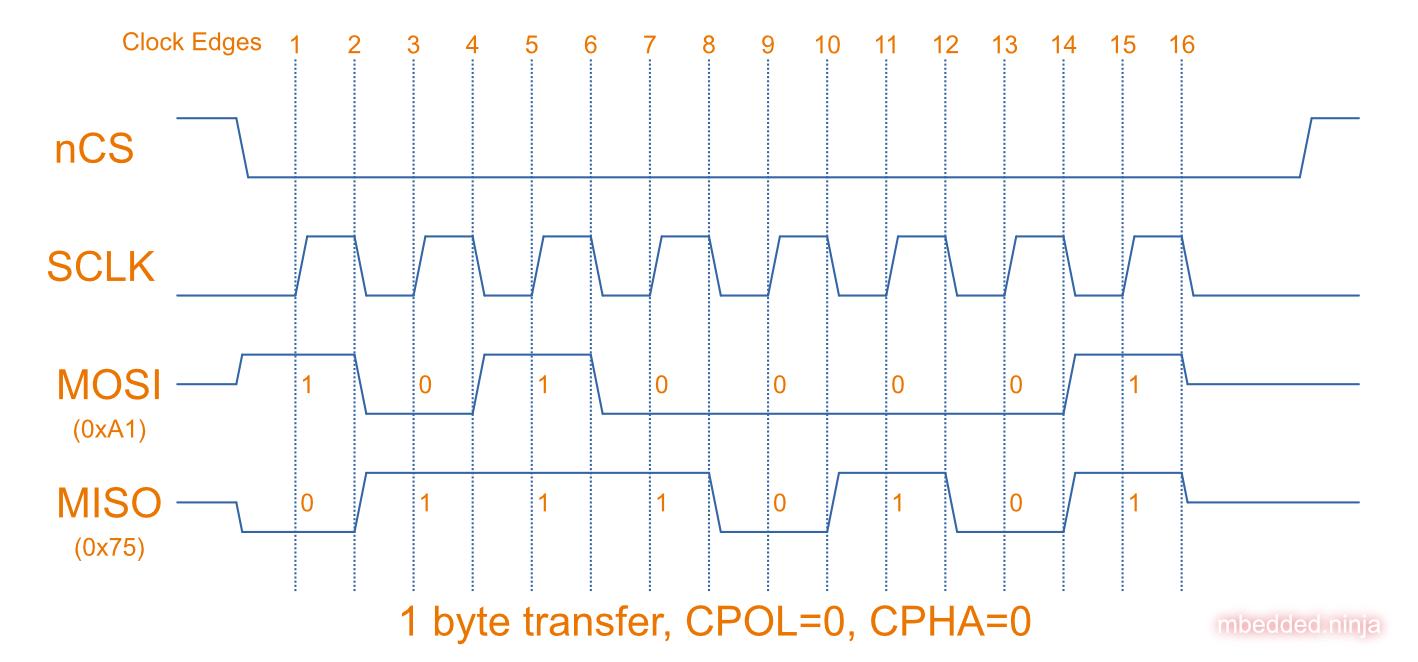
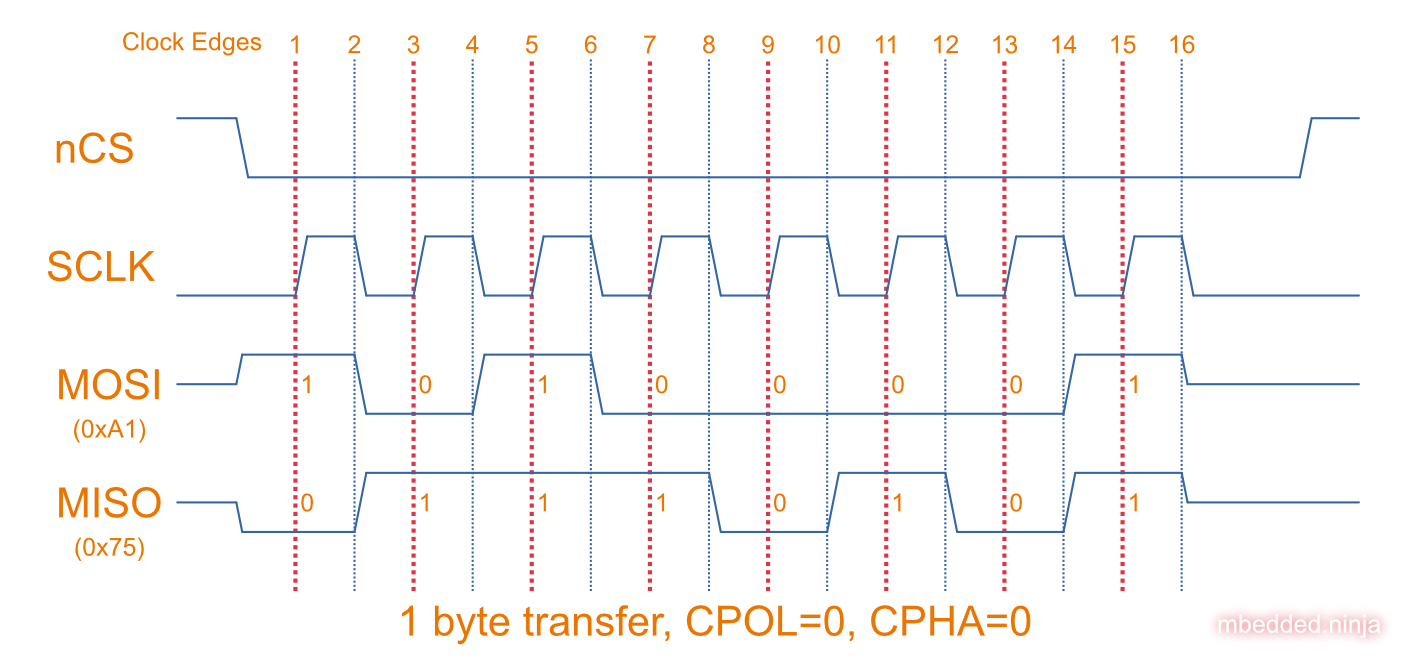
Added more info on SPI.

diff --git a/content/electronics/communication-protocols/spi-communication-protocol/_index.md b/content/electronics/communication-protocols/spi-communication-protocol/_index.md
@@ -3,15 +3,15 @@ authors: [ Geoffrey Hunter ]
 categories: [ Electronics, Communication Protocols ]
 date: 2011-09-03
 draft: false
-lastmod: 2022-06-02
-tags: [ electronics, communication protocols, SPI, bit-banging, MOSI, MISO, peripherals, microcontrollers, MCP4131 ]
+lastmod: 2022-06-25
+tags: [ electronics, communication protocols, SPI, bit-banging, MOSI, MISO, peripherals, microcontrollers, MCP4131, Arduino, controller, peripheral, master, slave, OSHWA ]
 title: SPI Communication Protocol
 type: page
 ---
 
 ## Overview
 
-SPI (_Serial Peripheral Interface_) is a **communication protocol commonly used to talk between microcontrollers/FPGAs and peripheral ICs on circuit boards**. The SPI protocol was initially developed by Motorola. It is **full-duplex** (data can be sent in both directions at once), and is ideally suited to sending medium-speed data streams between devices on the same PCB. Speeds of **10MHz** or more are achievable. It is a **de-facto standard**, which means there is no governing body that defines and regulates the protocol. This means there a quite a number of protocol variants.
+SPI (_Serial Peripheral Interface_) is a **communication protocol commonly used to talk between microcontrollers/FPGAs and peripheral ICs on circuit boards**. The SPI protocol was initially developed by Motorola. It is **full-duplex** (data can be sent in both directions at once), and is ideally suited to sending medium-speed data streams (typical rates up to 10-24Mbps[^bib-totalphase-single-dual-quad-spi]) between devices on the same PCB. It is a **de-facto standard**, which means there is no governing body that defines and regulates the protocol. This means there a quite a number of protocol variants.
 
 {{% img src="spi-basic-master-slave-diagram.png" width="600px" caption="The basic connections needed between an SPI master and a single SPI slave." %}}
 
@@ -44,11 +44,20 @@ One limitation with SPI is that the master has to **initiate** all communication
 
 **No specific termination** is needed on SPI connections. Long connections (many metres or more) and high data rates (>10Mhz) may require standard termination procedures to prevent reflections.
 
+Arduino has moved away from master/slave terminology (supported by an [OSHWA resolution](https://www.oshwa.org/a-resolution-to-redefine-spi-signal-names)) and now uses the following _controller/peripheral_ terminology for SPI[^bib-arduino-spi]:
+
+Old (Master/Slave)          | New (Controller/Peripheral)
+----------------------------|---------
+SS (Slave Select)           | CS (Chip Select)
+SCLK (Serial Clock)         | SCK (Serial Clock)
+MOSI (Master Out, Slave In) | COPI (Controller Out, Peripheral In)
+MISO (Master In, Slave Out) | CIPO (Controller In, Peripheral Out)
+
 ## Protocol
 
 Many **microcontrollers** support the SPI protocol with **dedicated peripheral hardware** to perform the low-level functions associated with sending and receiving SPI data. However, SPI can also be **bit banged** (see below).
 
-The MSB (most significant bit) is sent first, and naturally is then the first to be received. There is no pre-defined packet format, so there is no overhead added by the SPI protocol. This makes SPI great for fast transmission of arbitrary data streams, but relies on application specific interpretation of the raw bytes.
+The MSB (most significant bit) is typically sent first, and naturally is then the first to be received. However this is not specified by the standard, and occasionally you will encounter SPI devices that expect data LSB first. There is no pre-defined packet format, so there is no overhead added by the SPI protocol. This makes SPI great for fast transmission of arbitrary data streams, but relies on application specific interpretation of the raw bytes.
 
 Chip select normally uses inverse logic (low = chip selected). It usually is used to 'frame' a command sequence.
 
@@ -62,7 +71,7 @@ The clock polarity (CPOL) determines whether the idle state of the clock signal 
 
 The clock phase (CPHA) determines whether data is captured/sent on the rising or falling edge. **If CPHA = 0, then data is sampled on the first clock edge. If CPHA = 1, then data is sampled on the second clock edge.** This is true no matter what the clock polarity (CPOL) is set to, and applies both to the master and all the slaves. Note that if CPHA = 0, then data must be setup before the first clock edge. If CPHA = 1, then the devices have the initial clock edge to shift data onto the lines, in preparation for sampling on the second clock edge.
 
-The following table shows the naming conventions for _Microchip PIC_ or _ARM-based_ microcontrollers:
+The following table shows the naming conventions for _Microchip PIC_ or _ARM-based_ microcontrollers, as well as what is used for the Arduino SPI API[^bib-arduino-spi]:
 
 SPI Mode | Clock Polarity (CPOL) | Clock Phase (CPHA) | Which Clock Edge Is Used To Sample/Shift?
 ---------|-----------------------|--------------------|--------------------------------------------------------------
@@ -71,24 +80,21 @@ SPI Mode | Clock Polarity (CPOL) | Clock Phase (CPHA) | Which Clock Edge Is Used
 2        | 1                     | 0                  | Data sampled on falling edge and shifted out on rising edge.
 3        | 1                     | 1                  | Data sampled on rising edge and shifted out on falling edge.
 
-A common point of confusion is what clock phase (CPHA) means for data sampling/shifting for the different clock polarities. I have seen many sites and diagrams online which state that a clock phase of `0` means that data is sampled on the rising edge.
+A common point of confusion is what clock phase (CPHA) means for data sampling/shifting for the different clock polarities. I have seen many sites and diagrams online which state that a clock phase CPHA of `0` means that data is sampled on the rising edge (this is only true is CPOL is also 0).
 
 The following diagram gives a graphical representation of the different CPOL and CPHA settings. Bits on the MOSI and MISO lines are always sampled half-way between the transitions. For CPHA=0 this means data is sampled on clock edges 1, 3, 5, e.t.c and for CPHA=1 data is sampled on clock edges 2, 4, 6, e.t.c.
 
 {{% img src="cpol-and-cpha-diagram.png" width="800px" caption="Diagram showing the different behaviours for different CPOL and CPHA settings." %}}
 
-Below shows an example of a single-byte transfer with CPOL=0 and CPHA=0. The master sends the data `0xA1` and the slave sends `0x75`.
+Below shows an example of a single-byte transfer with CPOL=0 and CPHA=0. The master sends the data `0xA1` and the slave sends `0x75`. Data is sampled at the dotted red vertical lines.
 
-{{% img src="example-transmission-cpol0-cpha0.png" width="800px" caption="Example single-byte transfer with CPOL=0 and CPHA=0. Master sends 0xA1, slave sends 0x75." %}}
+{{% img src="example-transmission-cpol0-cpha0.png" width="800px" caption="Example single-byte transfer with CPOL=0 and CPHA=0 (Mode 0). Master sends 0xA1, slave sends 0x75. Data is sampled at the dotted red vertical lines." %}}
+
+And now for comparison, let's see what it would look like if we transmitted the same data but with CPOL=1 and CPHA=1 (Mode 3):
+
+{{% img src="example-transmission-cpol1-cpha1.png" width="800px" caption="Example single-byte transfer with CPOL=1 and CPHA=1 (Mode 3). Master sends 0xA1, slave sends 0x75. Data is sampled at the dotted red vertical lines." %}}
 
 The standard defines these different modes to allow for greater variability in the master and slave devices that can use SPI.
-
-### What Is The Idle State?
-
-The idle state is defined as the periods when:
-
-* CS is high and transitioning to low at the start of a transmission
-* CS is low and transitioning to high at the end of a transmission
 
 {{% note %}}
 Many devices do not support all four SPI modes. It is common (especially for slave devices) to only support two of the four modes.
@@ -144,6 +150,42 @@ The datasheet says exactly when the SDI will be turned into an SDO and data sent
 (SDI/SDO pin). After the Address/Command (first 6-bits) are received, If a valid Read command has been
 requested, the SDO pin starts driving the requested read data onto the SDI/SDO pin[^bib-microchip-mcp4xxxx-dpot-ds].
 
+## Dual And Quad SPI
+
+Dual and Quad SPI (QSPI) are extensions on the basic SPI bus which allow for faster communication rates. QSPI is commonly used for external NOR flash memory.
+
+## Firmware
+
+The Arduino platform provides a consistent API for accessing peripherals on an SPI bus. The API is accessed by including `SPI.h` in your `.cpp` file. If the microcontroller has only one SPI bus, it can usually be accessed via the global `SPI`.
+
+```c++
+#include <SPI.h>
+
+const int slavePin = 20;
+
+int main() {
+    uint8_t val1, val2;
+
+    // Begin SPI transaction, setting clock speed to 1MHz, most significant bit first (typical), and
+    // SPI Mode 0 (CPOL=0, CPHA=0).
+    SPI.beginTransaction(SPISettings(1000000, MSBFIRST, SPI_MODE0));
+
+    // Assert the slaves chip select (drive low)
+    digitalWrite(slavePin, LOW);
+
+    // Two bytes transferred across, and read the two bytes sent back to us
+    val1 = SPI.transfer(0xA1);
+    val2 = SPI.transfer(0x07);
+
+    // De-assert the chip select
+    digitalWrite(slavePin, HIGH);
+
+    // End transaction, SPI bus is now free to be used by other devices
+    SPI.endTransaction();
+}
+
+```
+
 ## Similar Protocols
 
 ### Microwire (uWire)
@@ -165,3 +207,5 @@ The RapidS term is used by [Atmel](http://www.atmel.com/) and [Adesto Technologi
 [^bib-microchip-forums-spi-3-wire-microwire]: Microchip Forum (2006, Nov 13). _Differences between SPI, 3-Wire and Microwire_. Retrieved 2022-06-02, from https://www.microchip.com/forums/m202051.aspx.
 [^bib-scienceprog-microwire-compared]: ScienceProg. _Microwire compared to SPI and I2C_. Retrieved 2022-06-02, from https://scienceprog.com/microwire-compared-to-spi-and-i2c/.
 [^bib-ti-an-452-microwire]: Texas Instruments (1992, Jan). _AN-452: MICROWIRE Serial Interface_. Retrieved 2022-06-02, from https://www.ti.com/lit/an/snoa743/snoa743.pdf.
+[^bib-arduino-spi]: Arduino. _Arduino & Serial Peripheral Interface (SPI)_. Retrieved 2022-06-25, from https://docs.arduino.cc/learn/communication/spi.
+[^bib-totalphase-single-dual-quad-spi]: Kathleen Chan. _What are the Differences of Single vs Dual vs Quad SPI?_. TotalPhase. Retrieved 2022-06-25, from https://www.totalphase.com/blog/2020/05/what-are-the-differences-of-single-vs-dual-vs-quad-spi/.

diff --git a/content/posts/2022/06-30-june-2022-updates/_index.md b/content/posts/2022/06-30-june-2022-updates/_index.md
@@ -24,3 +24,5 @@ type: "post"
 * Added info on [UART frame structure](/electronics/communication-protocols/uart-communication-protocol/#uart-frame-structure).
 
 * Added info on [MQTT-SN (MQTT for Sensor Networks)](/electronics/communication-protocols/mqtt-protocol/#mqtt-sn).
+
+* Added info and diagrams on SPI CPOL and CPHA settings, incl. example byte transfers.
